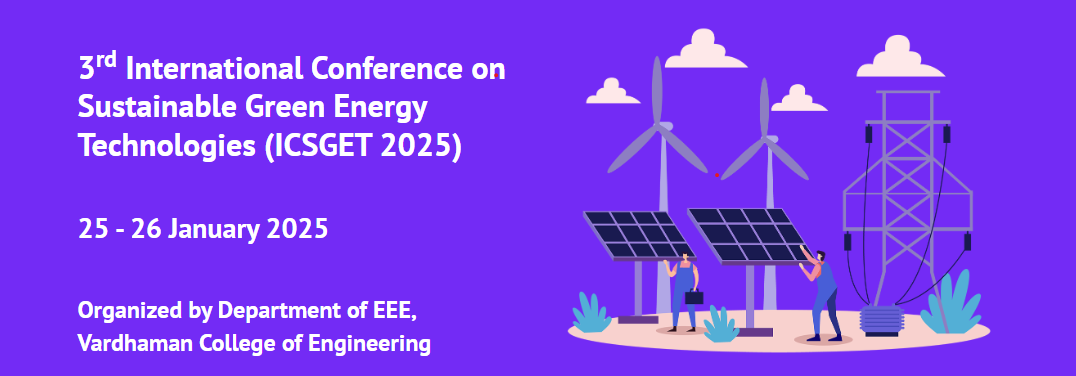
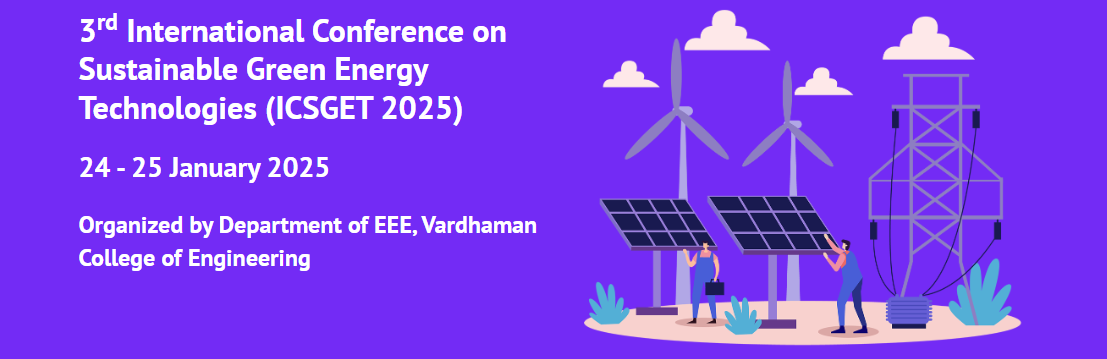
updated dates

diff --git a/_layouts/default.html b/_layouts/default.html
@@ -111,10 +111,10 @@ gtag('config', '{{site.ganalytics}}');
 <hr>
   <div class="credits mx-auto text-center mb-3">
 	<h2>Important Dates</h2>
-	Firm deadline: May 1, 2024<br>
-	Author Notification: May 20, 2024<br>
-	Camera-Ready Submission: May 30, 2024<br>
-	Conference Date: June 14, 15, 2024<br>
+	Firm deadline: 01 December 2024<br>
+	Author Notification: 20 December 2024<br>
+	Camera-Ready Submission: 30 December 2024<br>
+	Conference Date: 24 - 25 January 2025<br>
   </div>
 
   <ul class="p-0 mb-1 small">
